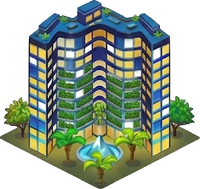
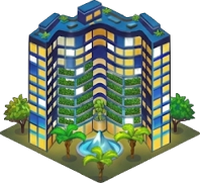
Second render pass for the eight sideways buildings
Swaps in the re-done art. The first sheet stays in the repo as
building_sheet.png, so this is one revert away if it reads worse in play.

Recorded plainly, because the numbers argued against it and were overruled on
purpose: the proportion this pass was aimed at did not move. Building height
above the ground plate, divided by plate width - the thing that decides whether
a building looks like it fills its block - averages 0.46 across both sheets
against the existing nine's 0.54. Five came out slightly smaller, two the same,
and only the Skypark rose (0.51 -> 0.61). Source cells are also 200px against
the first sheet's 236, so they arrive at the 200px target with no headroom and
measure softer - acutance 59.9 against 74.7, below the existing nine's 63.1.

The judgement call is the user's and the difference is small enough not to fight
over; this note is here so a later pass does not rediscover it from scratch.

The TV Tower in that sheet is NOT taken. It was redone out of curiosity and
measures identical to the shipped art - plate 181, building 104 vs 105, lawn
16.2% both - so swapping it would be churn. It is a useful control though: a
building already above average came back unchanged, which says the render pass
moves the crop and the margin rather than the geometry.

buildings_derive now skips anything with "_sheet" in the name rather than only a
"_sheet.png" suffix, so the contact sheets are kept whole as sources of record
[…]

diff --git a/tools/buildings_derive.py b/tools/buildings_derive.py
@@ -68,7 +68,7 @@ def main() -> None:
     # deriving it whole would produce one 200px sprite containing eight
     # buildings.
     names = sorted(f for f in os.listdir(SRC)
-                   if f.lower().endswith(".png") and not f.lower().endswith("_sheet.png"))
+                   if f.lower().endswith(".png") and "_sheet" not in f.lower())
     for name in names:
         img = Image.open(os.path.join(SRC, name)).convert("RGBA")
         box = img.getchannel("A").getbbox()
